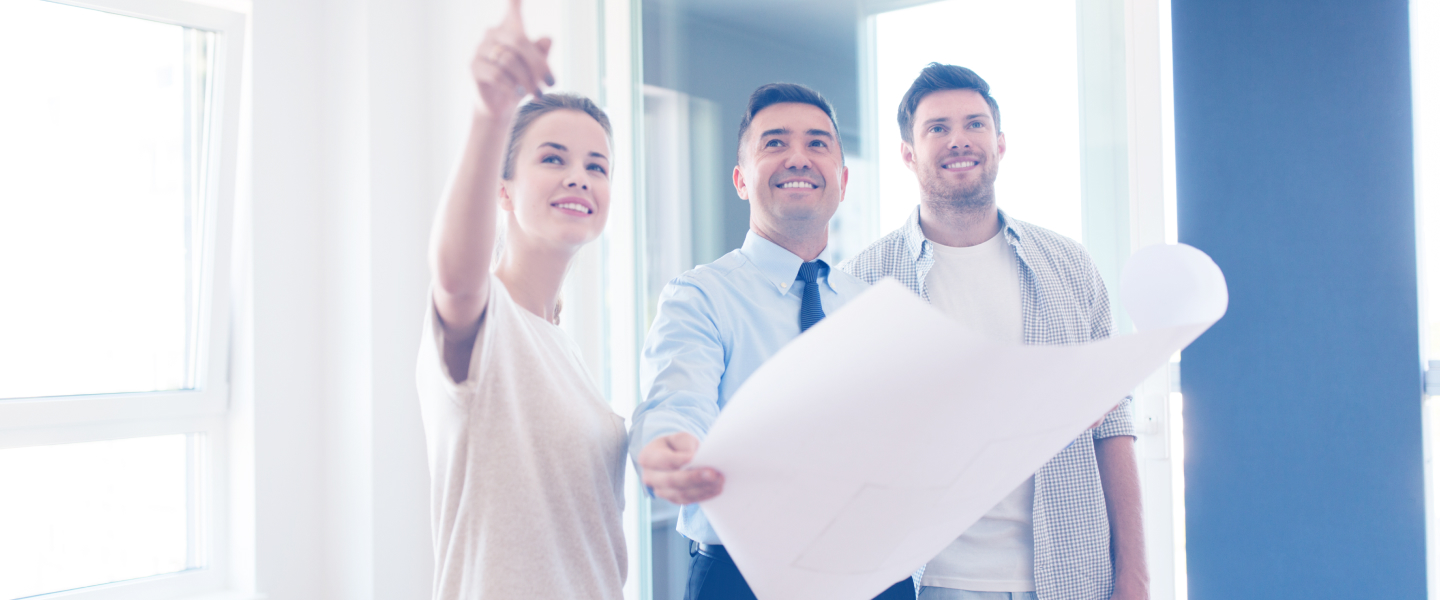
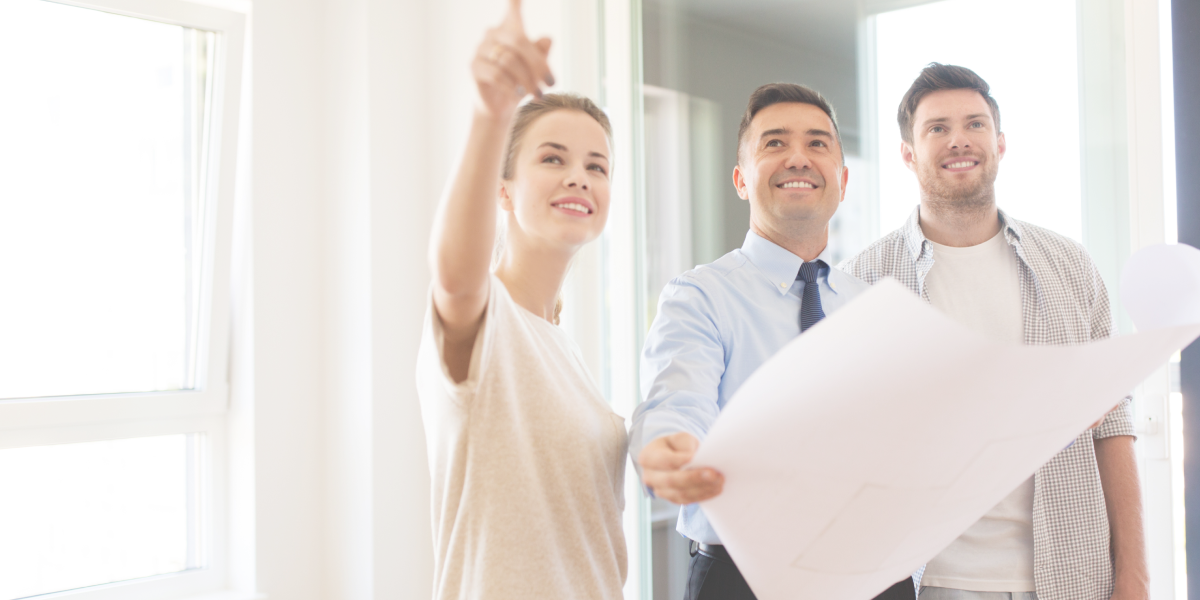
CSS

diff --git a/src/pages/loan/steps/03-ejendele/01-ejendele.js b/src/pages/loan/steps/03-ejendele/01-ejendele.js
@@ -1,7 +1,69 @@
+import StepsMobile from "../../../../../components/StepsMobile";
+import Link from "next/link";
+import Context from "../../../../../components/Context";
+import { useState, useContext } from "react";
+import { useEffect } from "react";
+// import { postNyeBolig } from "../../../../../components/Post";
+import { patchNyeBolig } from "../../../../../components/Patch";
+import { useRouter } from "next/router";
+
 export default function Ejendele() {
   return (
     <>
-      <h1>Ejendele</h1>
+      {/* Back and Steps Bar */}
+      <div className="step-back-wrapper">
+        <div className="flex-row-space-around step-back-container">
+          <div className="flex-row-left">
+            <Link href="/" className="flex-row-left back">
+              <svg xmlns="http://www.w3.org/2000/svg" width="16" height="16" fill="currentColor" className="bi bi-arrow-left" viewBox="0 0 16 16">
+                <path fillRule="evenodd" d="M15 8a.5.5 0 0 0-.5-.5H2.707l3.147-3.146a.5.5 0 1 0-.708-.708l-4 4a.5.5 0 0 0 0 .708l4 4a.5.5 0 0 0 .708-.708L2.707 8.5H14.5A.5.5 0 0 0 15 8z" />
+              </svg>
+              Forside
+            </Link>
+          </div>
+          <div className="flex-row-right">
+            <button className="btn-card-second" onClick={openSteps}>
+              1/8
+            </button>
+          </div>
+        </div>
+      </div>
+      <StepsMobile></StepsMobile>
+      {/**** FORM ****/}
+      <div className="form-wrapper">
+        <form id="ejendeleForm">
+          <h2>Ejendele</h2>
+          <p>Lorem ipsum</p>
+          <fieldset className="flex-column-left">
+            <div className="flex-row-left">
+              <legend>Hvilke type bolig vil du købe?</legend>
+            </div>
+            {/* Ejer eller Andel  */}
+            <div className="radio-toolbar">
+              <input type="radio" id="nye_bolig_ejersbolig" name="nye_bolig_andel_eller_ejerbolig" value="Ejersbolig" required />
+              <label htmlFor="nye_bolig_ejersbolig">Ejer</label>
+
+              <input type="radio" id="nye_bolig_andelsbolig" name="nye_bolig_andel_eller_ejerbolig" value="Andelsbolig" required />
+              <label htmlFor="nye_bolig_andelsbolig">Andel</label>
+            </div>
+          </fieldset>
+          {/* Submit  */}
+          <div className="flex-row-center">
+            <button className="btn-form" type="submit">
+              Fortsæt
+            </button>
+          </div>
+        </form>
+      </div>
     </>
   );
+}
+
+function openSteps() {
+  const steps = document.querySelector("#steps");
+  if (steps.style.display === "flex") {
+    steps.style.display = "none";
+  } else {
+    steps.style.display = "flex";
+  }
 }

diff --git a/components/StepsCheckout.js b/components/StepsCheckout.js
@@ -1,3 +1,5 @@
+import Link from "next/link";
+
 export default function StepsMobile() {
   return (
     <>
@@ -13,7 +15,7 @@ export default function StepsMobile() {
           </div>
         </div>
 
-        <button className="step">
+        <Link href={""} className="step">
           <div>Personlige oplysninger</div>
           <div>
             <svg xmlns="http://www.w3.org/2000/svg" width="16" height="16" fill="currentColor" className="bi bi-check-circle" viewBox="0 0 16 16">
@@ -21,8 +23,8 @@ export default function StepsMobile() {
               <path d="M10.97 4.97a.235.235 0 0 0-.02.022L7.477 9.417 5.384 7.323a.75.75 0 0 0-1.06 1.06L6.97 11.03a.75.75 0 0 0 1.079-.02l3.992-4.99a.75.75 0 0 0-1.071-1.05z" />
             </svg>
           </div>
-        </button>
-        <button className="step" disabled>
+        </Link>
+        <Link href={""} className="step" disabled>
           <div>Betaling</div>
           <div>
             <svg xmlns="http://www.w3.org/2000/svg" width="16" height="16" fill="currentColor" className="bi bi-check-circle" viewBox="0 0 16 16">
@@ -30,7 +32,7 @@ export default function StepsMobile() {
               <path d="M10.97 4.97a.235.235 0 0 0-.02.022L7.477 9.417 5.384 7.323a.75.75 0 0 0-1.06 1.06L6.97 11.03a.75.75 0 0 0 1.079-.02l3.992-4.99a.75.75 0 0 0-1.071-1.05z" />
             </svg>
           </div>
-        </button>
+        </Link>
       </div>
     </>
   );

diff --git a/styles/desktop.css b/styles/desktop.css
@@ -309,14 +309,14 @@
     background-image: url("../public/herohome.jpg");
     background-size: cover;
     background-repeat: no-repeat;
-    background-position: bottom;
+    background-position: center;
   }
   .hero-home-image {
     aspect-ratio: 1/1;
     width: 100%;
   }
 
-  .hero-home-text {
+  /* .hero-home-text {
     flex-direction: row;
     justify-content: space-around;
     align-items: flex-start;
@@ -325,10 +325,25 @@
     height: auto;
     padding: var(--p-medium);
     align-items: center;
-    /* background-color: transparent; */
     color: var(--white);
     text-align: left;
     gap: 2rem;
+  } */
+
+  .hero-home-text {
+    flex-direction: column;
+    /* justify-content: space-around; */
+    justify-content: center;
+    align-items: flex-start;
+    background-color: var(--dark-blue);
+    width: 100%;
+    height: 100%;
+    padding: var(--p-medium);
+    /* align-items: center; */
+    color: var(--white);
+    text-align: left;
+    /* gap: 2rem; */
+    position: relative;
   }
 
   .hero-home-text h1 {

diff --git a/styles/globals.css b/styles/globals.css
@@ -327,7 +327,8 @@ button,
 
 .btn:hover {
   font-family: var(--font);
-  background-color: var(--dark-blue);
+  background-color: var(--ligh-blue);
+  /* border: 1px solid var(--green); */
 }
 
 .btn svg {
@@ -855,7 +856,7 @@ nav ul li a.close {
   flex-direction: column;
   gap: 1.25rem;
   width: 100vw;
-  height: 42vh;
+  height: 55vh;
   text-align: left;
   justify-content: center;
   align-items: center;

diff --git a/components/ChatSupport.js b/components/ChatSupport.js
@@ -65,7 +65,7 @@ function openChat() {
   if (chat.style.display === "none") {
     chat.style.display = "flex";
   } else {
-    chat.style.display = "none";
+    chat.style.display = "flex";
   }
 }
 
@@ -74,6 +74,6 @@ function closeChat() {
   if (chat.style.display === "flex") {
     chat.style.display = "none";
   } else {
-    chat.style.display = "flex";
+    chat.style.display = "none";
   }
 }
